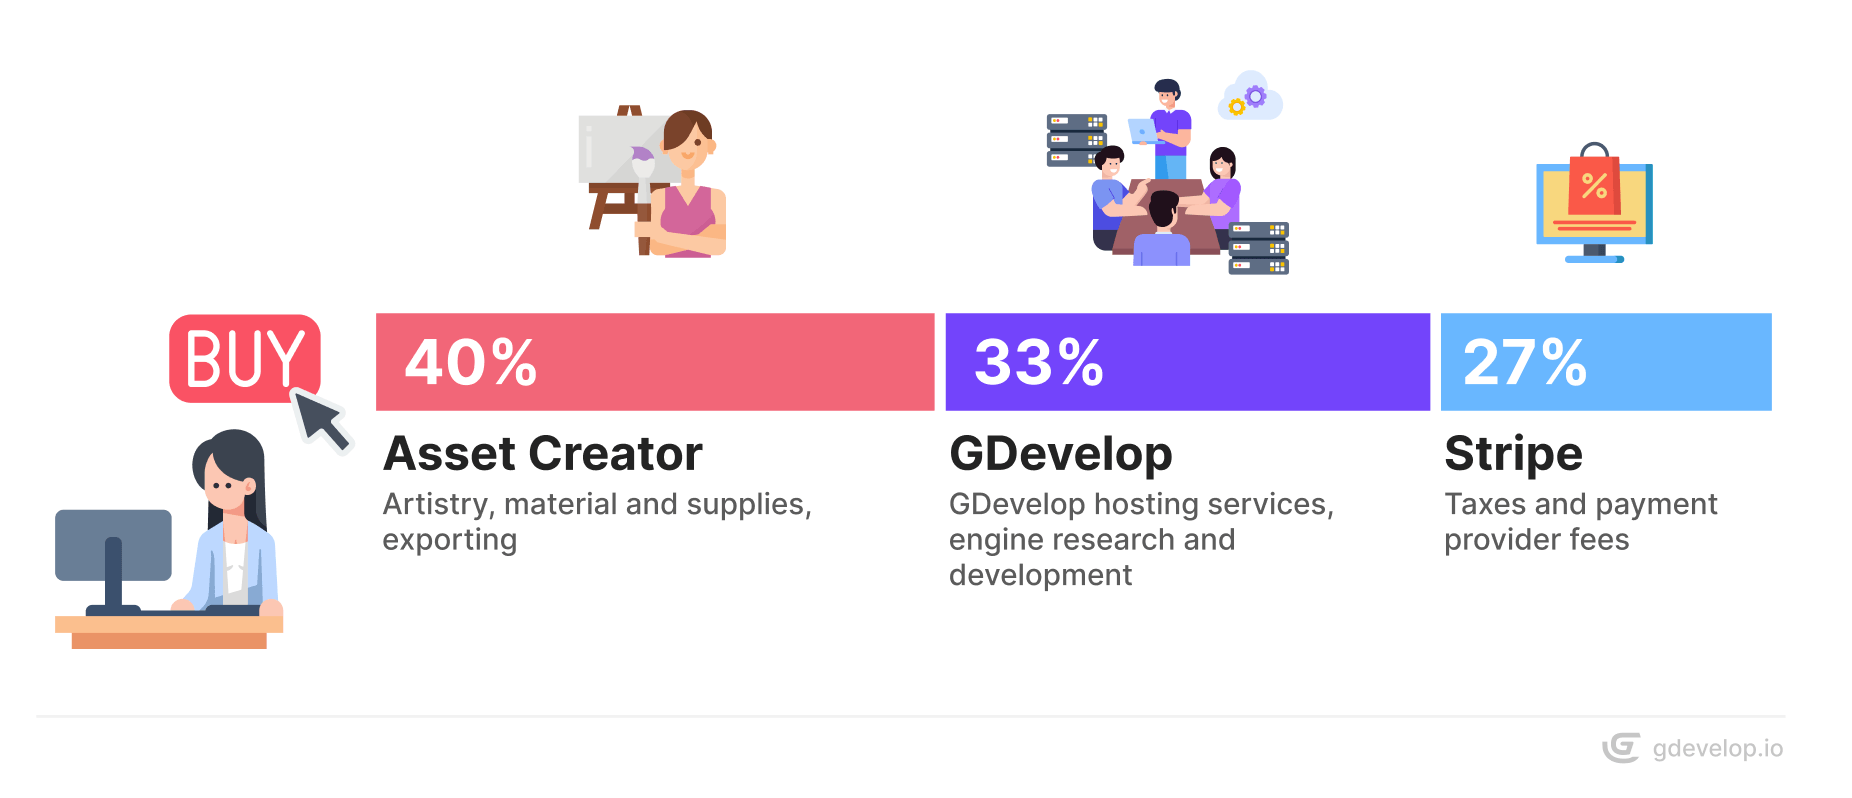
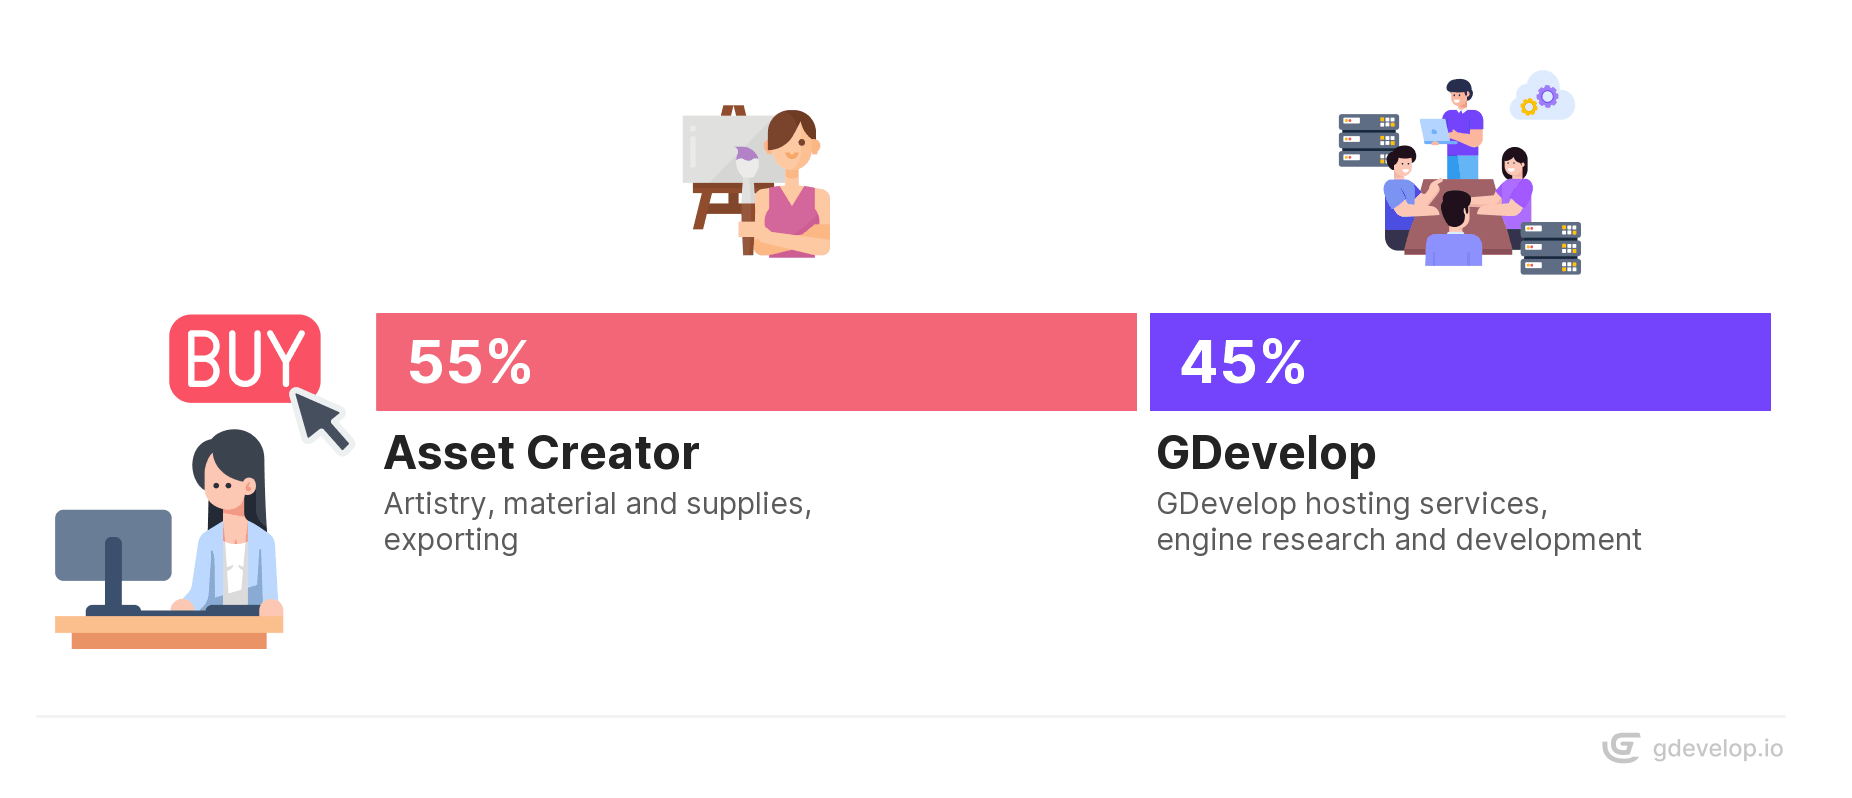
Update the asset store revenue sharing to 55/45
Also add the plan to regroup the selling pages in a Monetization section.

diff --git a/PLAN-monetization-section.md b/PLAN-monetization-section.md
@@ -1,0 +1,203 @@
+# Regrouper les pages de vente sur l'Asset Store dans la section Monetization
+
+## Sommaire
+
+- [Contexte](#contexte)
+- [Structure cible](#structure-cible)
+- [Étapes](#etapes)
+  - [1. Déplacer les pages](#1-deplacer-les-pages)
+  - [2. Écrire l'aperçu de section](#2-ecrire-lapercu-de-section)
+  - [3. Navigation](#3-navigation)
+  - [4. Corriger les liens internes](#4-corriger-les-liens-internes)
+  - [5. Redirections](#5-redirections)
+- [Vérification](#verification)
+
+## Contexte
+
+Tout ce qui concerne la vente sur l'Asset Store vit aujourd'hui dans **Community**, aux côtés
+des guides de contribution (signaler un bug, contribuer à la doc, Summer of Code). Or ces pages
+parlent de **revenu** : devenir vendeur, partage de revenus, prix, licences, paiements, puis
+comment livrer son produit. Et sur l'Asset Store il y a deux produits vendables, un pack
+d'assets et un game template : les deux parcours doivent être visibles dans la sidebar.
+
+De son côté, la section **Monetization** ne contient qu'une seule page
+(`monetization/index.md`, titrée « Monetizing Your Games »).
+
+Cible : une section Monetization qui regroupe les deux façons de gagner de l'argent avec
+GDevelop, vendre son jeu et vendre ses créations sur l'Asset Store, avec un parcours distinct
+par type de produit.
+
+## Structure cible
+
+```
+docs/gdevelop5/monetization/
+├── .pages                          (nouveau)
+├── index.md                        aperçu de section, titre « Monetization » (réécrit)
+├── monetizing-your-games/
+│   └── index.md                    contenu actuel de monetization/index.md (déplacé)
+├── sell-asset-pack-store/          déplacé depuis community/
+├── contribute-to-the-assets-store/ déplacé depuis community/ (contient aussi
+│                                   technical-specifications.md = « Manually package the assets »)
+└── guide-for-submitting-an-example/ déplacé depuis community/
+```
+
+Sidebar résultante :
+
+```
+Monetization                    -> aperçu
+  Monetizing Your Games
+  Sell on the Asset Store
+  Submit asset packs
+    Manually package the assets
+  Submit game templates
+```
+
+Les slugs de dossier et les libellés de sidebar actuels sont conservés tels quels ; seul
+l'emplacement change. Community garde ses guides de contribution (doc, bugs, Summer of Code,
+Season of Docs, code) et continue de pointer vers les guides de soumission depuis sa page
+d'accueil.
+
+## Étapes
+
+### 1. Déplacer les pages
+
+Avec `git mv`, pour conserver l'historique. Les dossiers partent avec leurs images, toutes
+référencées en relatif dans les pages : rien à modifier à l'intérieur pour les images.
+
+- `docs/gdevelop5/community/sell-asset-pack-store/` → `docs/gdevelop5/monetization/sell-asset-pack-store/`
+- `docs/gdevelop5/community/contribute-to-the-assets-store/` → `docs/gdevelop5/monetization/contribute-to-the-assets-store/`
+- `docs/gdevelop5/community/guide-for-submitting-an-example/` → `docs/gdevelop5/monetization/guide-for-submitting-an-example/`
+- `docs/gdevelop5/monetization/index.md` → `docs/gdevelop5/monetization/monetizing-your-games/index.md`
+  (contenu et front matter inchangés, titre « Monetizing Your Games » conservé ; la page n'a
+  aucune image locale, juste un iframe YouTube)
+
+### 2. Écrire l'aperçu de section
+
+Nouveau `docs/gdevelop5/monetization/index.md`, court, sur le modèle de
+[docs/gdevelop5/community/index.md](docs/gdevelop5/community/index.md) (intro + liste de liens) :
+
+```md
+---
+title: Monetization
+icon: material/cash-multiple
+---
+# Monetization
+
+GDevelop lets you earn money from what you create, both from your games and from the game art
+and templates you make. Monetizing is entirely optional.
+
+* [Monetizing your games](/gdevelop5/monetization/monetizing-your-games/): sell your game on
+  stores, display ads, or earn revenue by hosting it on gd.games.
+* [Selling on GDevelop's Asset Store](/gdevelop5/monetization/sell-asset-pack-store/): become a
+  seller, then submit either an [asset pack](/gdevelop5/monetization/contribute-to-the-assets-store/)
+  or a [game template](/gdevelop5/monetization/guide-for-submitting-an-example/).
+```
+
+L'`icon: material/cash-multiple` reste porté par cette page, qui devient l'entrée de section.
+
+### 3. Navigation
+
+Nouveau `docs/gdevelop5/monetization/.pages` (style de
+[docs/gdevelop5/publishing/.pages](docs/gdevelop5/publishing/.pages), indentation 4 espaces) :
+
+```yaml
+title: Monetization
+nav:
+    - index.md
+    - Monetizing Your Games: monetizing-your-games
+    - Sell on the Asset Store: sell-asset-pack-store
+    - Submit asset packs: contribute-to-the-assets-store
+    - Submit game templates: guide-for-submitting-an-example
+```
+
+Dans [docs/gdevelop5/community/.pages](docs/gdevelop5/community/.pages) : supprimer les lignes 2,
+3 et 4 (`Sell on the Asset Store`, `Submit asset packs`, `Submit game templates`). Le reste du
+fichier (`Contribute to the documentation`, `Report a bug`, `- ...`, etc.) est inchangé.
+
+[docs/gdevelop5/.pages](docs/gdevelop5/.pages) reste inchangé (`- monetization` en ligne 14).
+
+Aucun `.pages` à créer dans `contribute-to-the-assets-store/` : « Manually package the assets »
+reste le seul enfant, listé automatiquement.
+
+### 4. Corriger les liens internes
+
+Toutes les URL du site portent un slash final (`vercel.json` : `trailingSlash: true`).
+`mkdocs.yml` définit `validation: links: absolute_links: ignore`, donc **aucun** de ces liens
+absolus ne fera échouer le build : ils doivent être corrigés à la main, puis re-grepés
+(`grep -rn "gdevelop5/community/sell-asset-pack-store\|gdevelop5/community/contribute-to-the-assets-store\|gdevelop5/community/guide-for-submitting-an-example" docs`
+doit ne plus rien rendre).
+
+Vers la page de vente (`/gdevelop5/monetization/sell-asset-pack-store/`) :
+
+| Fichier | Ligne | Remarque |
+|---|---|---|
+| [docs/gdevelop5/interface/index.md](docs/gdevelop5/interface/index.md#L58) | 58 | lien absolu |
+| [docs/gdevelop5/objects/3d-model/index.md](docs/gdevelop5/objects/3d-model/index.md#L120) | 120 | lien **relatif** (`../../community/sell-asset-pack-store`) : le passer en absolu, comme partout ailleurs |
+| `monetization/contribute-to-the-assets-store/index.md` (ex-community) | 7 | lien absolu, dans un fichier déplacé |
+
+Vers les guides de soumission :
+
+| Fichier | Ligne | Cible |
+|---|---|---|
+| [docs/gdevelop5/community/index.md](docs/gdevelop5/community/index.md#L17) | 17 | `/gdevelop5/monetization/contribute-to-the-assets-store/` |
+| [docs/gdevelop5/community/index.md](docs/gdevelop5/community/index.md#L19) | 19 | `/gdevelop5/monetization/guide-for-submitting-an-example/` |
+| `monetization/sell-asset-pack-store/index.md` (déplacé) | 107 et 109 | les 2 boutons en bas de page |
+| `monetization/contribute-to-the-assets-store/technical-specifications.md` (déplacé) | 179 | lien avec ancre `#follow-naming-best-practices` |
+
+Vers les ancres de « Monetizing Your Games », qui passent de `/gdevelop5/monetization/#…` à
+`/gdevelop5/monetization/monetizing-your-games/#…` (ancres inchangées) :
+
+| Fichier | Ligne | Ancre |
+|---|---|---|
+| [docs/gdevelop5/interface/profile/credits.md](docs/gdevelop5/interface/profile/credits.md#L27) | 27 | `#hosting-on-gdevelops-platform-gdgames` |
+| [docs/gdevelop5/interface/games.md](docs/gdevelop5/interface/games.md#L27) | 27 | idem (URL absolue `https://wiki.gdevelop.io/…`) |
+| [docs/gdevelop5/interface/games.md](docs/gdevelop5/interface/games.md#L57) | 57 | idem |
+| [docs/gdevelop5/interface/games-dashboard/index.md](docs/gdevelop5/interface/games-dashboard/index.md#L38) | 38 | `#publishing-on-platforms-with-integrated-ads` |
+
+Au passage, [docs/gdevelop5/community/teams.md](docs/gdevelop5/community/teams.md#L174) lignes 174,
+189 et 190 pointe vers `guide-for-submitting-an-example` sur l'ancien domaine
+`http://wiki.compilgames.net/doku.php/…` : les basculer sur les URL actuelles
+(`/gdevelop5/monetization/guide-for-submitting-an-example/`), les ancres DokuWiki
+(`#best_practices`, `#submitting_the_example`) n'existant plus telles quelles.
+
+### 5. Redirections
+
+Le plugin `mkdocs-redirects` est déjà configuré. Ajouter à la fin du `redirect_maps` de
+[mkdocs.yml](mkdocs.yml) (après la ligne 371), sans préfixes de langue, comme les entrées
+récentes du fichier (lignes 111 et suivantes) :
+
+```yaml
+        "gdevelop5/community/sell-asset-pack-store/index.md": "gdevelop5/monetization/sell-asset-pack-store/index.md"
+        "gdevelop5/community/contribute-to-the-assets-store/index.md": "gdevelop5/monetization/contribute-to-the-assets-store/index.md"
+        "gdevelop5/community/contribute-to-the-assets-store/technical-specifications.md": "gdevelop5/monetization/contribute-to-the-assets-store/technical-specifications.md"
+        "gdevelop5/community/guide-for-submitting-an-example/index.md": "gdevelop5/monetization/guide-for-submitting-an-example/index.md"
+```
+
+Ces 4 redirections sont indispensables : ces URL sont référencées depuis l'éditeur GDevelop, le
+dépôt GDevelop-assets et GDevelop-examples, et le forum.
+
+Pas de redirection pour `/gdevelop5/monetization/` : l'URL existe toujours. Les liens externes
+vers ses anciennes ancres arriveront sur l'aperçu, d'où le lien « Monetizing your games » en
+première puce.
+
+## Vérification
+
+1. Build du site, depuis la racine du dépôt :
+   ```powershell
+   .venv\Scripts\activate
+   mkdocs build
+   ```
+   Attendu : aucun warning de lien relatif cassé (celui de `3d-model` doit avoir disparu), aucun
+   warning de redirection dont la cible n'existe pas.
+2. `mkdocs serve`, puis dans la sidebar :
+   - **Monetization** liste « Monetizing Your Games », « Sell on the Asset Store »,
+     « Submit asset packs » (avec « Manually package the assets » en enfant) et
+     « Submit game templates » ;
+   - **Community** ne liste plus aucune de ces pages, et ses autres entrées sont intactes.
+3. Ouvrir les 3 pages déplacées et vérifier que toutes les captures s'affichent (les dossiers
+   `sell-asset-pack-store` et `contribute-to-the-assets-store` en contiennent beaucoup).
+4. Ouvrir les 4 anciennes URL `/gdevelop5/community/…` : chacune doit rediriger vers la nouvelle.
+5. Cliquer les 4 liens à ancre corrigés vers « Monetizing Your Games » et vérifier l'atterrissage
+   sur la bonne section.
+6. `git status` : confirmer que les déplacements apparaissent en renames et non en
+   suppression + ajout.

diff --git a/docs/gdevelop5/community/sell-asset-pack-store/index.md b/docs/gdevelop5/community/sell-asset-pack-store/index.md
@@ -24,7 +24,7 @@ Read on to learn more about revenue sharing, transactions, and other agreements 
 
 ![](revenue-sharing.png)
 
-When an asset is sold on GDevelop's Asset Store, the purchase is distributed as follows: 40% for the Asset creator, 33% for GDevelop, and 27% for government taxes (VAT) and payment provider fees.
+When an asset is sold on GDevelop's Asset Store, the revenue is shared as follows: 55% for the Asset creator and 45% for GDevelop, after taxes and payment provider fees.
 
 !!! note
 
